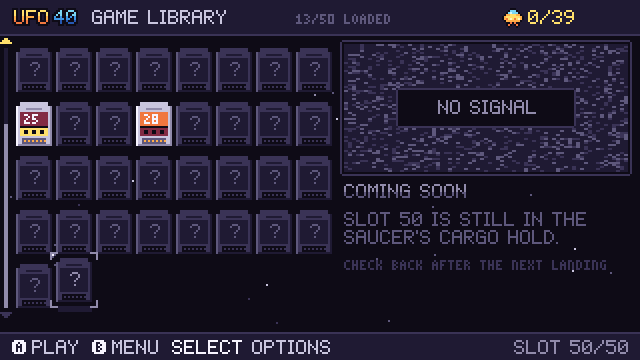
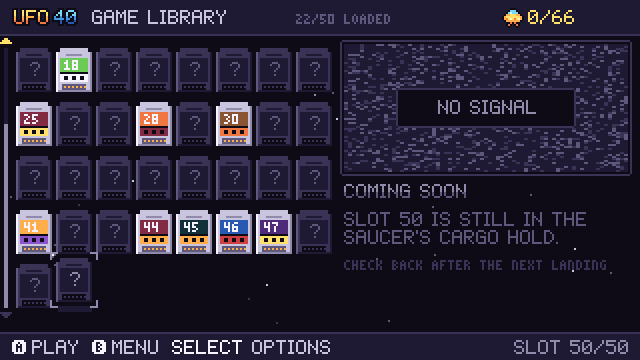
README: twenty-two cartridges, 182 tunes; fresh console shots

diff --git a/README.md b/README.md
@@ -5,7 +5,7 @@
 <h1 align="center">UFO 40</h1>
 
 <p align="center">
-  <b>A pretend 1980s console with fifty cartridges (well, thirteen so far), built from scratch<br>
+  <b>A pretend 1980s console with fifty cartridges (well, twenty-two so far), built from scratch<br>
   for the PlayStation Vita, Windows and the web.</b><br><br>
   <a href="https://naniiic137.github.io/ufo-40/"><b>▶ Play it in your browser</b></a> ·
   <a href="https://github.com/naniiic137/ufo-40/releases">Download for Vita / Windows</a>
@@ -72,7 +72,7 @@ and the music and sound volumes are in every game's pause menu too.
   <img src="docs/shots/savedata.png" width="320" alt="The save data screen">
 </p>
 
-## The library (13 of 50 loaded)
+## The library (22 of 50 loaded)
 
 <p align="center"><img src="docs/shots/library.png" width="640" alt="The UFO 40 game library with 50 cartridge slots"></p>
 
@@ -1019,8 +1019,8 @@ src/platform/headless/ scripted test runner, PNG / GIF / WAV writers, Vita LiveA
     plays notes with lengths, ties and repeat blocks.
   - Sound effects use the same notation and take over one channel for a
     moment, just like old hardware.
-  - Every track and jingle is original: 90 compositions across the console and
-    the thirteen cartridges.
+  - Every track and jingle is original: 182 compositions across the console and
+    the twenty-two cartridges.
 - **Art.** Sprites are written as strings of palette letters in the C source
   (`k` ink, `y` yellow, `C` cyan and so on), so there are no binary assets at
   all. The Vita LiveArea images are drawn by the engine itself
